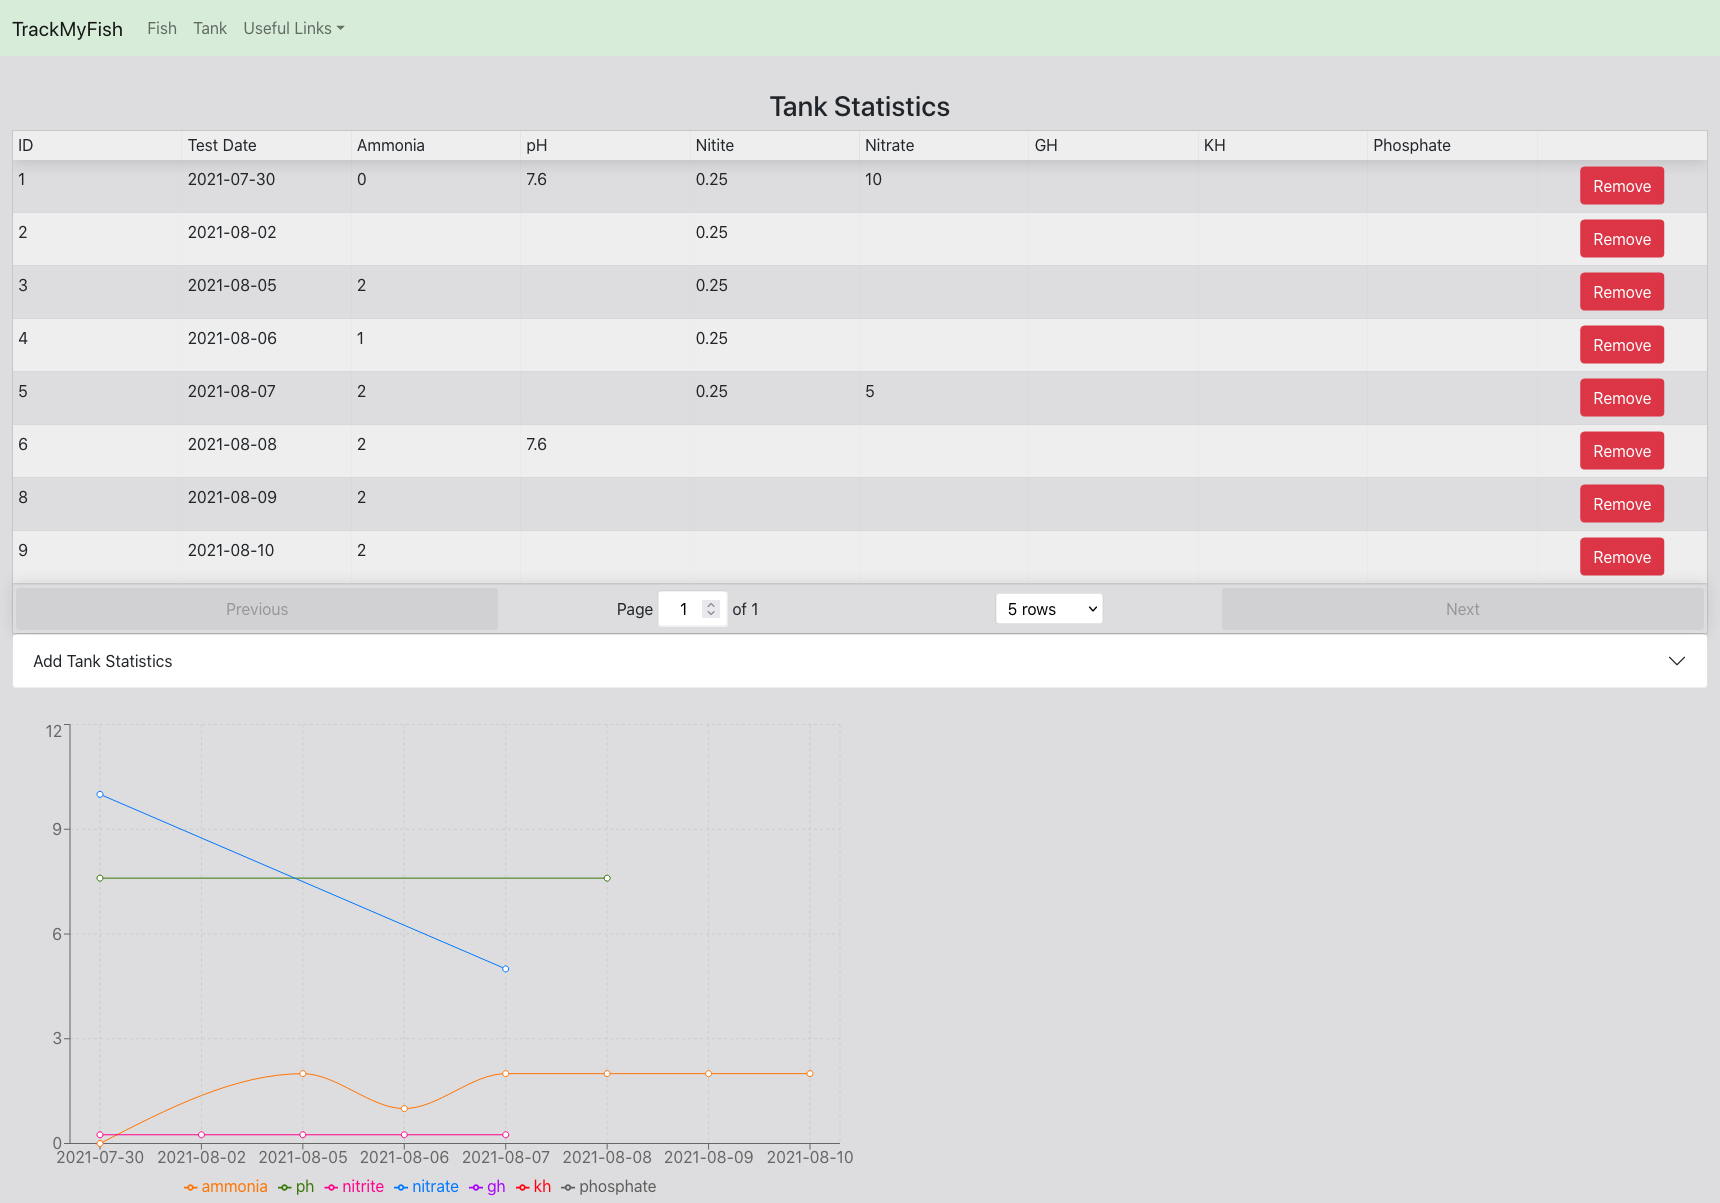
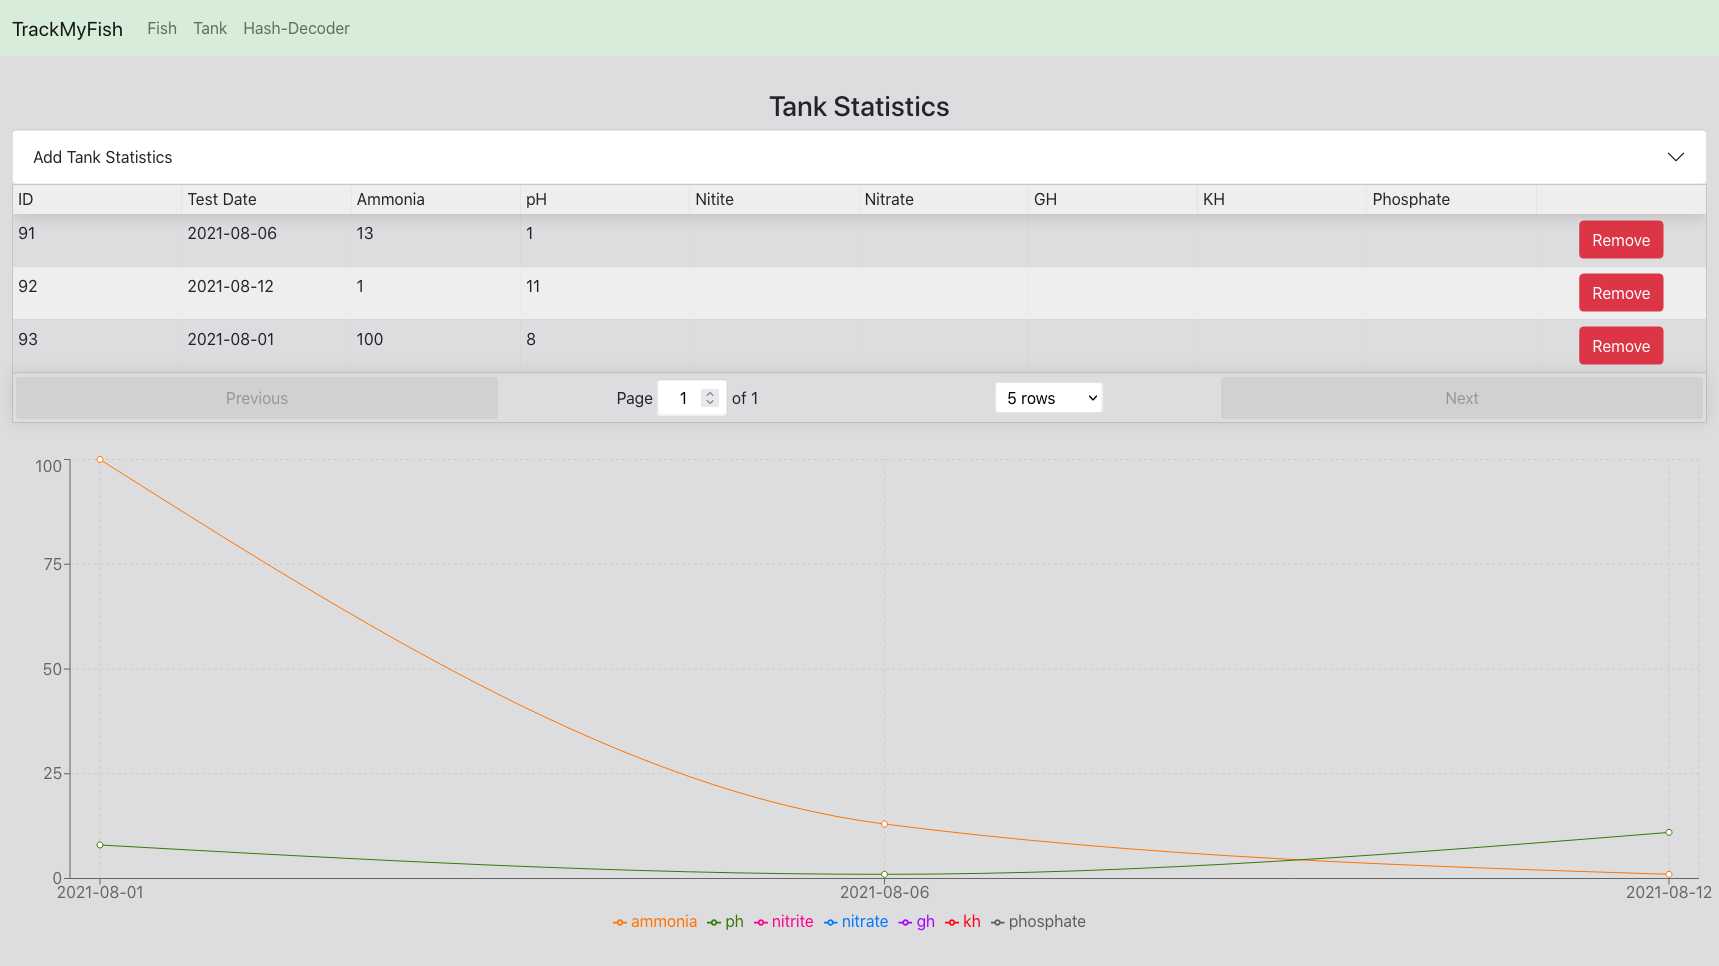
Update screenshots and README

diff --git a/README.md b/README.md
@@ -21,6 +21,11 @@ Sure...
 
 ![Fish Tracker](/assets/images/screenshots/trackmyfish1.png)
 ![Tank Statistic Tracker](/assets/images/screenshots/trackmyfish2.png)
+![Hash-Decoder](/assets/images/screenshots/trackmyfish3.png)
+
+## Can I share my list of fish with other people?
+
+Yes! That's what the Hash-Decoder is for! If someone shares their hash with you, put it in, click "Submit" and you'll see what fish they have!
 
 # Running TrackMyFish
 
